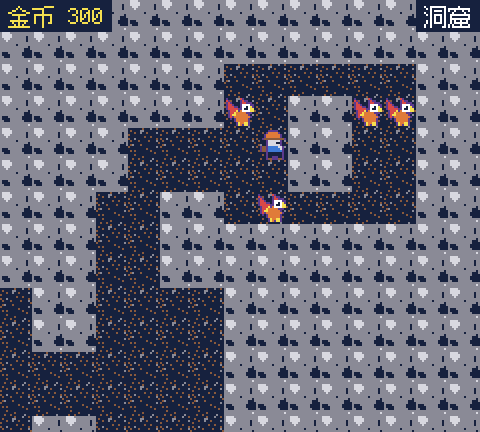
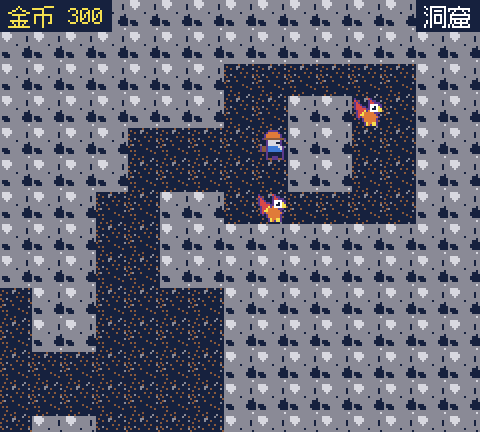
文档：删除 README 已知限制 8.4 / 8.5 / 8.6
- 删除 8.4 音频只验证了接线、8.5 没有 30 分钟连续试玩记录、8.6 洞窟难度上升
- 原 8.7（部分精灵 Lv1 没有 0MP 招式）改号为 8.4
- 同步修掉 tests/test_player.py 里指向已删除小节 §8.6 的注释
- Ran 672 tests OK

Changed region(s): [[0.7812, 0.2106, 0.875, 0.3009], [0.4688, 0.2106, 0.5312, 0.3009]]

diff --git a/tests/test_player.py b/tests/test_player.py
@@ -94,7 +94,7 @@ class PartyTest(unittest.TestCase):
 
 
 class StorageExchangeTest(unittest.TestCase):
-    """队伍 <-> 仓库 互换（README §8.6 缺口）。
+    """队伍 <-> 仓库 互换（原先 README 记录的缺口，已补齐）。
 
     硬规则由数据层保证：
 

diff --git a/README.md b/README.md
@@ -339,40 +339,7 @@ Pyxel 2.9.9 的 Rust 内核在第二次 `pyxel.init()` 时会 panic（`Pyxel alr
 现在改为**随仓库分发 OFL 点阵字体**（Ark Pixel 12px），不再依赖系统字体，三个平台都能跑。
 系统字体只作为回退链存在（字体授权见 [NOTICE](NOTICE)）。
 
-### 8.4 音频只验证了接线，没验证听感
-
-15 个音效与 3 段 BGM 的**触发时机、通道分配、去重、静音**都有自动化测试覆盖，
-但**音量平衡、音色是否好听，没有任何人正式听过并确认**。这块需要人耳判断。
-
-### 8.5 没有 30 分钟连续试玩记录
-
-规划文档 M8 的验收标准是「30 分钟流畅试玩无崩溃」。项目里**目前没有这份记录**——
-作者本地存档能查到的时长只有 `play_seconds: 30`（30 秒），而存档文件按 `.gitignore`
-不进版本库，所以这份证据在公开仓库里看不到。因此 M8 判"部分达成"。
-
-能拿出的替代证据是：584 个用例全绿、多轮无头长跑不崩溃、单帧耗时约 5 ms（16.67 ms 预算的 30%）。
-但这些**都不能代替真人在真窗口里连玩 30 分钟**。
-
-### 8.6 洞窟难度在修复「野生精灵技能」之后上升了
-
-T12 修好了一个长期缺陷：以前野生精灵**只带 Lv1 的两招**（`field_scene` 生成时没传 `skills`，
-`Creature` 默认只取 `learnset[1]`）。现在会按等级带上**所有该学会的招式**（上限 4、不重复）。
-
-副作用是**洞窟整体变强**——洞窟等级 7~18，所有精灵都会多出 Lv8 招式。按真实伤害公式算，
-玩家 Lv14 小火狮（HP 63 / DEF 23）面对：
-
-| 场景 | 期望伤害 | 占 HP |
-|---|---|---|
-| 雷云团 Lv16 用「电击」（修前） | 23.9 | 38% |
-| 雷云团 Lv16 用「雷云审判」（修后） | 66.2 | **105%，一发秒** |
-| 不死鸟 Lv18 用「烈焰」（修前） | 56.7 | 90% |
-| 不死鸟 Lv18 用「凤凰天翔」（修后） | 81.9 | **130%，一发秒** |
-
-野外（地图 2）几乎不受影响：那里等级只到 8，只有花刃忍（Lv5–8）会多一招藤鞭。
-
-**本次没有重新平衡数值**，交由试玩后判断。若要调，最直接的两个旋钮是：
-把雷云团在洞窟的等级上限从 16 降到 14，或让不死鸟最深处只刷 Lv15–16。
-### 8.7 部分精灵 Lv1 没有 0MP 招式
+### 8.4 部分精灵 Lv1 没有 0MP 招式
 
 `battle_scene` 对 MP 不足的招式是**置灰不可选**（《数值设定.md》§5.3）。有 10 只精灵的 Lv1 两招都要 MP：
 新精灵里的灯火鳅 / 荆星芽 / 雏羽啾 / 夜幕翼 / 绒医团 / 导线蛇，以及旧精灵里的小狮鹫 / 独角兽 / 三头犬 / 不死鸟。
